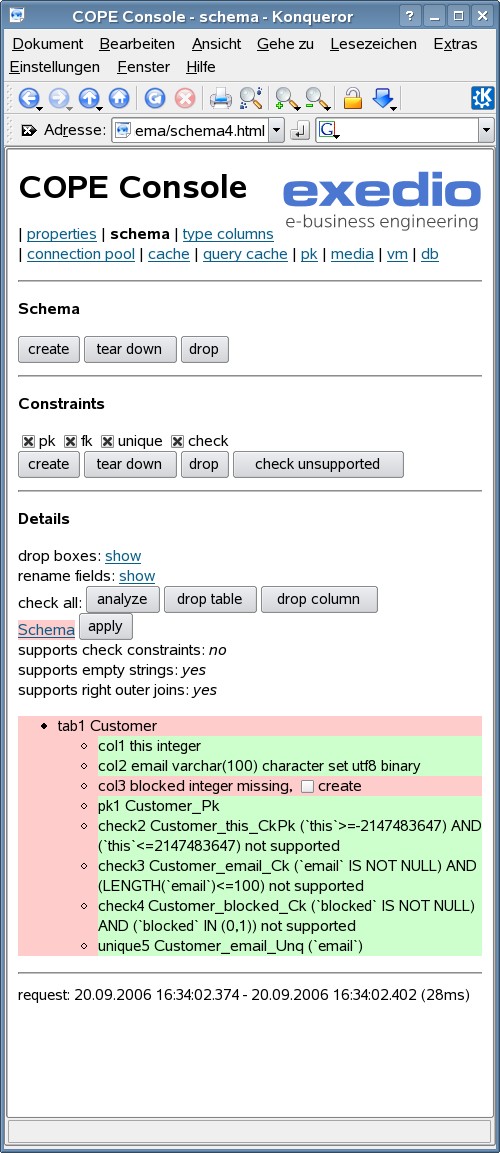
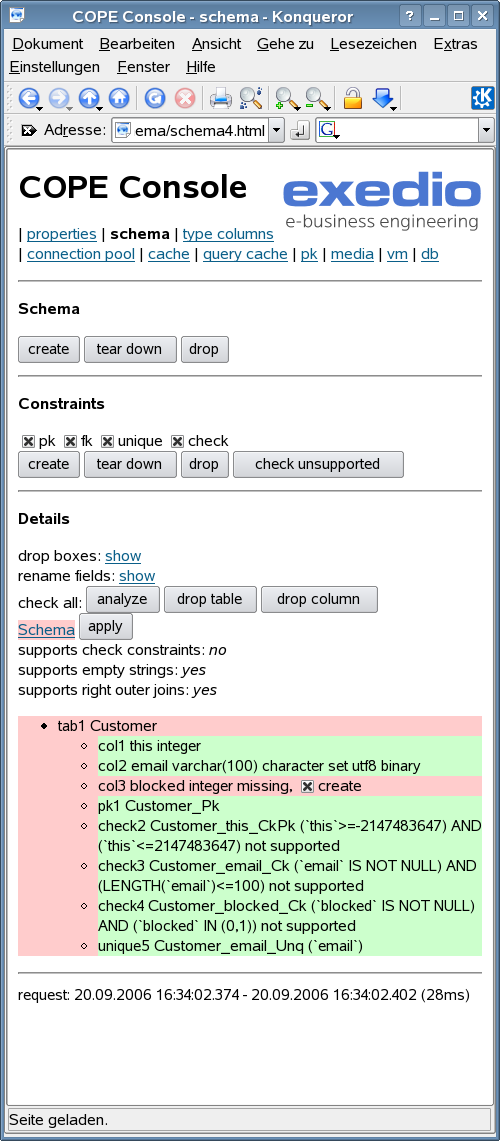
select checkbox for creating column
git-svn-id: https://svn.exedio.com/cope/trunk/persistence@6393 e7d4fc99-c606-0410-b9bf-843393a9eab7

Changed region(s): [[0.0, 0.0307, 0.99, 0.8896], [0.03, 0.9509, 0.96, 1.0]]

diff --git a/screenshots/schema/schema4.html b/screenshots/schema/schema4.html
@@ -71,7 +71,7 @@ supports right outer joins: <i>yes</i>
 				<small>col3</small> blocked
 				<small>integer</small>
 				<span class="error">missing</span>,
-				<input type="checkbox" name="CREATE_COLUMN" value="Customer#blocked"/>create
+				<input type="checkbox" name="CREATE_COLUMN" value="Customer#blocked" checked="true" />create
 			</li>
 			<li class="ok">
 				<small>pk1</small> Customer_Pk
